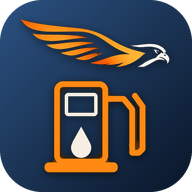
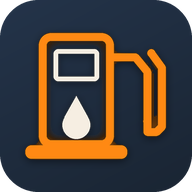
Icones sense falcó i pantalla d'inici d'Android blau pissarra

diff --git a/sw.js b/sw.js
@@ -2,7 +2,7 @@
 // Quan canviïs l'app, puja el número de versió perquè els mòbils agafin la nova.
 // IMPORTANT: totes les apps Xoriguer comparteixen l'origen xorigu3r.github.io.
 // Aquest fitxer NOMÉS toca les memòries cau que comencen per "gasolina-".
-const VERSION = "gasolina-v2";
+const VERSION = "gasolina-v2-icones";
 const DADES = "gasolina-dades";   // preus guardats per l'app (js/app.js); no s'esborra en actualitzar
 const APP = [
   "./", "index.html", "manifest.json", "css/app.css", "marca/marca.css", "marca/Montserrat-ExtraBold.ttf",
